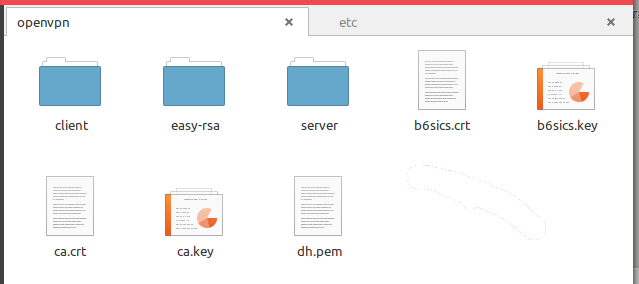
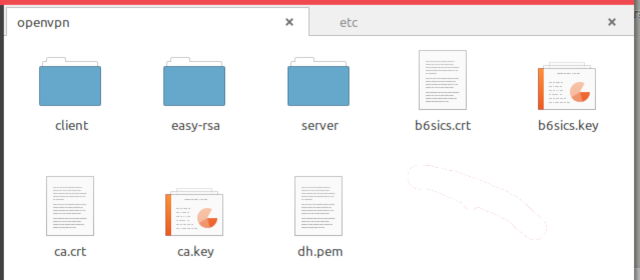
update

diff --git a/vpn/index.html b/vpn/index.html
@@ -48,7 +48,7 @@
 			</header>
 
 			<figure>
-				<img src="images/openVPN.png" alt="openVPN" title="openVPN" width="auto" height="auto">
+				<img src="images/openVPN.png" alt="openVPN" title="openVPN" width="auto" height="auto" />
 			</figure>
 			<p>
 				If you want more than just pre-shared keys OpenVPN makes it easy
@@ -196,7 +196,8 @@
 						Common practice is to copy them to /etc/openvpn/:
 					</p>
 					<figure>
-						<img src="images/certificates.png" alt="certificates" title="certificates" width="auto" height="auto">
+						<img src="images/certificates.png" alt="certificates" title="certificates"
+							style="width: 640px; max-width: 100%; height: auto;" />
 					</figure>
 				</article>
 			</article>
